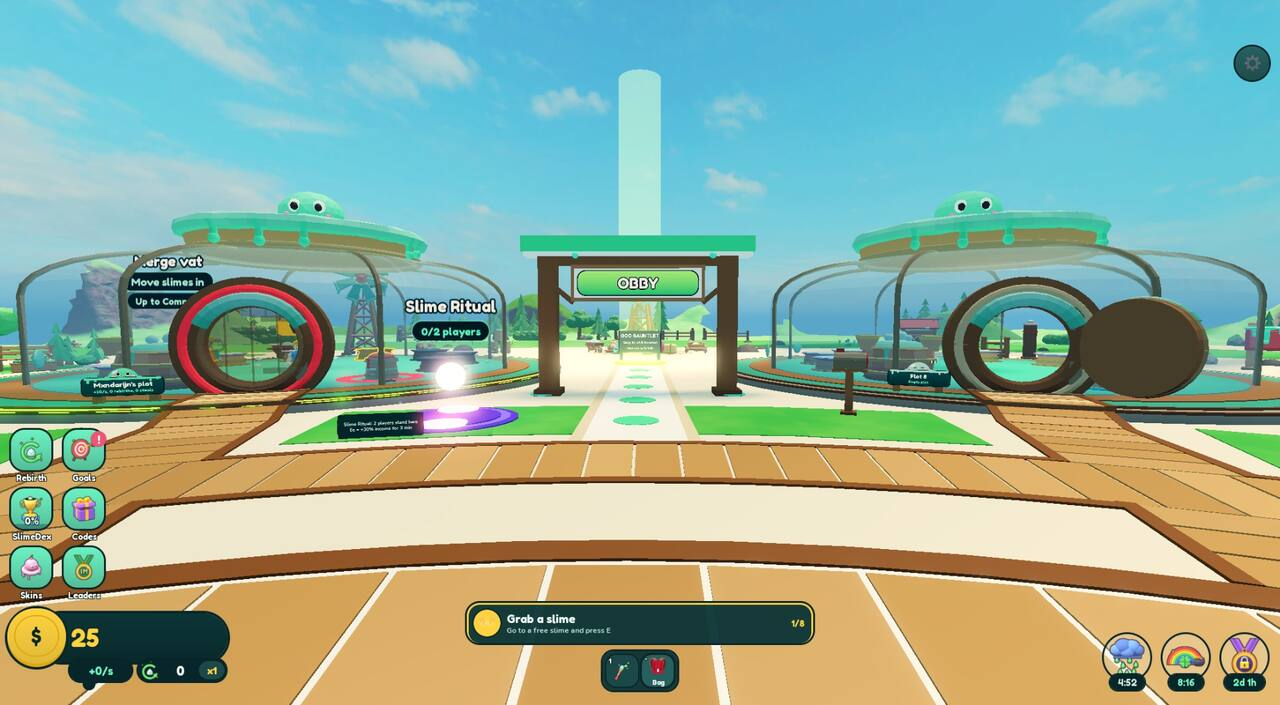
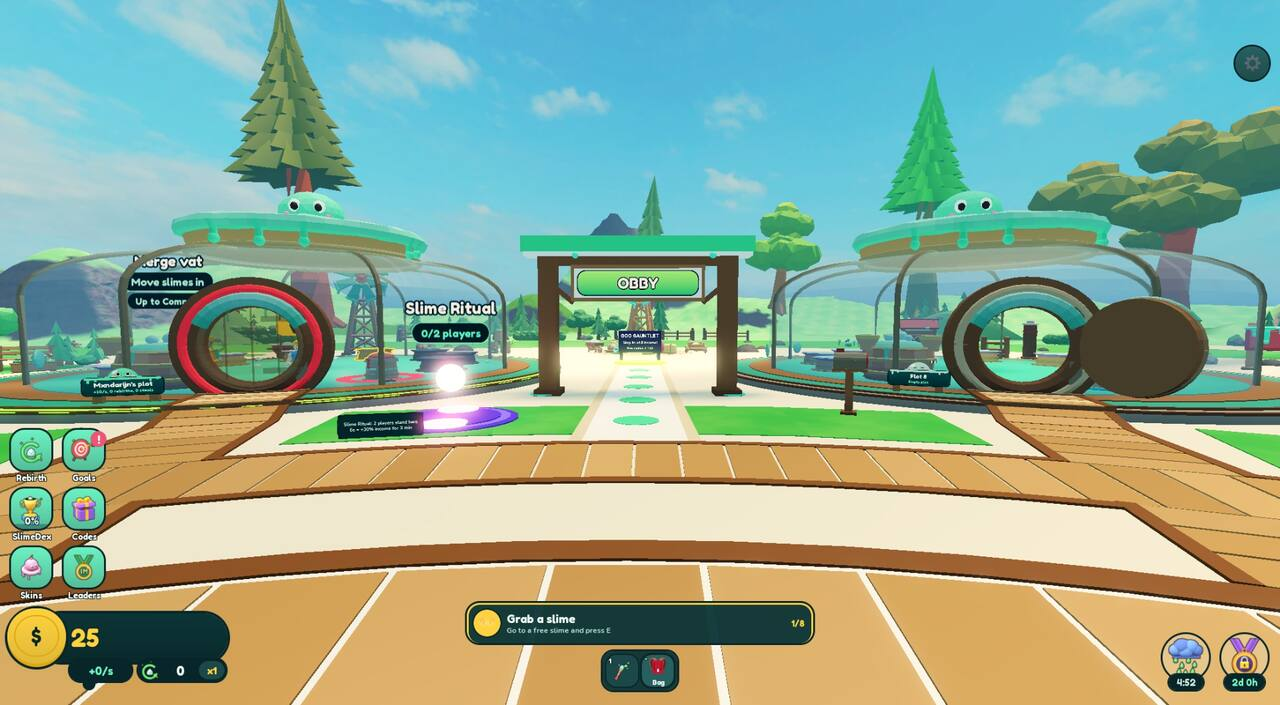
fix(steal-a-slime): remove the obby portal's light column
The portal keeps its ring, floor and sign; the path and the OBBY arch lead
players there.

diff --git a/games/steal-a-slime/contract/obby.md b/games/steal-a-slime/contract/obby.md
@@ -45,7 +45,7 @@ A short parkour course in its own sky world, reached through a portal in the yar
 - `ObbyLook.isInside` (set by `ObbyWorld` each frame, `onInsideChanged` for changes) is the one "in the obby world" signal on the client. While it is true the home plot marker (beacon, tag, edge arrow) hides, the weather (`WeatherFx`) and Slime Rain draw nothing, and the tutorial guide computes no paths (`GuideView` `shouldPath`) and hides its edge pointer. All of it comes back on the way out.
 - `workspace.Obby.Course` (attribute `Slot`): one Part per `ObbyCourse.Part` (a TrussPart for ladders). Moving parts carry `Constants.OBBY_*` attributes (motion kind, rest CFrame, axis, amplitude, period, phase, delay, away, duty, min, shrink axes, power, arm). Motion kinds: slide, spin, melt, flip, shrink, bounce (trampolines and cannons throw the local player up at `power`), lift (wind columns), swing (pendulums), rock (seesaws). Belts have a surface velocity, ice no friction.
 - Slime Guard opens its launch window for players on a run (`SlimeGuardView`): bounces and fans rise faster than a jump.
-- `workspace.Obby.Portal`: ring, floor, light column and a SurfaceGui sign (`Title`, `Constants.OBBY_SIGN_STATUS`, `Constants.OBBY_SIGN_COURSE`), MaxDistance 200 (guides/roblox-world-labels.md).
+- `workspace.Obby.Portal`: ring, floor and a SurfaceGui sign (no light column: the path and the OBBY arch lead players there) (`Title`, `Constants.OBBY_SIGN_STATUS`, `Constants.OBBY_SIGN_COURSE`), MaxDistance 200 (guides/roblox-world-labels.md).
 
 ## 6. Analytics
 
